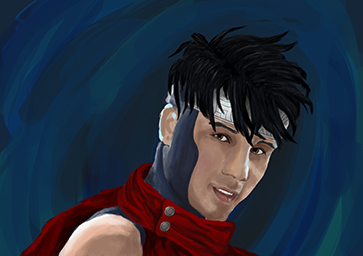
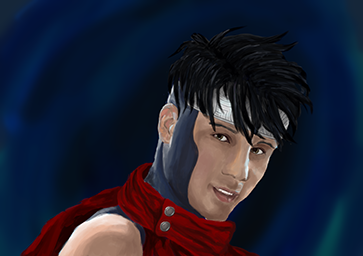
Wiccan update.

diff --git a/_posts/2015-01-15-Wiccan.md b/_posts/2015-01-15-Wiccan.md
@@ -1,8 +1,8 @@
 ---
 layout: post-noDate
 title: Wiccan
-tagline: A work in progress illustration. Estimated time - 8 hours.
-description: A work in progress illustration. Estimated time - 8 hours.
+tagline: An illustration of a Marvel character. Estimated time - 10 hours.
+description: An illustration of a Marvel character. Estimated time - 10 hours.
 extra_css: /assets/css/projects.css
 categories: [2D]
 tags: [2D, Art, Photoshop]
@@ -12,7 +12,8 @@ images: [[Wiccan-01blockout],
 		[Wiccan-02faceProgression],
 		[Wiccan-03refinement],
 		[Wiccan-04eyesAndHair],
-		[Wiccan-05headbandClothes]
+		[Wiccan-05headbandClothes],
+		[Wiccan-06earAndBackground]
 		]
 ---
 {% include JB/setup %}

diff --git a/_posts/1992-12-22-2d.md b/_posts/1992-12-22-2d.md
@@ -10,7 +10,7 @@ permalink: projects/2d/
 extra_css: /assets/css/projects.css
 
 images: [
-		[Wiccan/BrianTam-Wiccan, "Wiccan - Illustration in Photoshop - 8 hours, Work In Progress", true, "Breakdown[/projects/2d/Wiccan]"],
+		[Wiccan/BrianTam-Wiccan, "Wiccan - Illustration in Photoshop - 10 hours", true, "Breakdown[/projects/2d/Wiccan]"],
 		[BrianTam-Karma-TheFiresWithin, "Karma, The Fires Within - Illustration in Photoshop"],
 		[BrianTam-Sylvari, Shatter - Illustration in Photoshop],
 		[BrianTam-BehindAMask, "Behind a Mask - Charcoal, Acrylic, and Newspaper on Canvas"],
